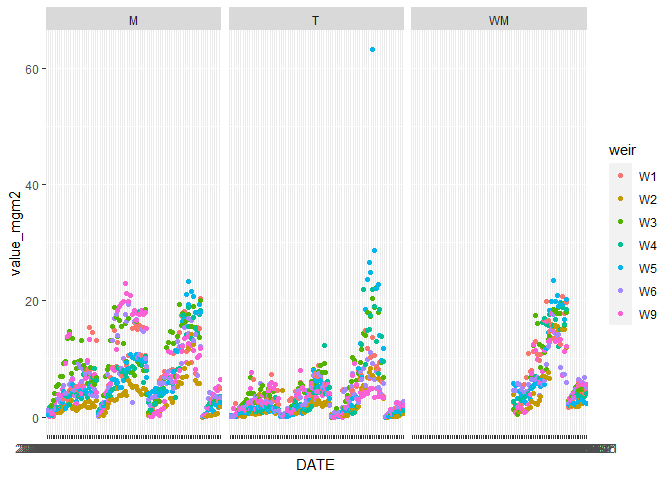
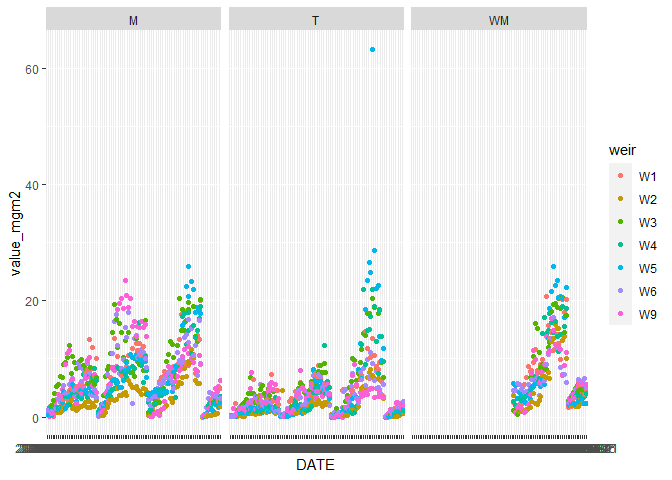
update standard curve, add high slope with intercept

Changed region(s): [[0.0938, 0.5938, 0.3125, 0.7812], [0.7812, 0.5625, 0.8438, 0.7812]]

diff --git a/rfu-calculation-vignette.md b/rfu-calculation-vignette.md
@@ -198,7 +198,7 @@ Next, run this function on your file number and save as `chla`, set
 surface area (`sa = TRUE`) for all files after 2020:
 
 ``` r
-chla <- get_chla_data_fr_drive(2, sa = TRUE)
+chla <- get_chla_data_fr_drive(1, sa = TRUE)
 ```
 
     ## Warning: Expecting numeric in B263 / R263C2: got 'NA'
@@ -396,9 +396,11 @@ rfu_to_mgm2 <- function(chla_list, slp_id) {
       rfu_cutoff <- subset_slps[subset_slps$slopetype == "cutoff",]$slope #rfu switching point from H to L
       rfu_abvdetection <- subset_slps[subset_slps$slopetype == "above_detection",]$slope #rfu above detect
       low_slp <- subset_slps[subset_slps$slopetype == "low_zero",]$slope #low standard slope
-      high_slp <- subset_slps[subset_slps$slopetype == "high_zero",]$slope #high standard slope
+      high_slp <- subset_slps[subset_slps$slopetype == "high_full",]$slope #high standard slope
+      high_int <- subset_slps[subset_slps$slopetype == "high_full",]$intercept
       
       chla_mgm2$slp <- ifelse(chla_mgm2$value_rfu <= rfu_cutoff, low_slp, high_slp)
+      chla_mgm2$int <- ifelse(chla_mgm2$value_rfu <= rfu_cutoff, 0, as.numeric(high_int))
       
       #add warning to calc-notes
       chla_mgm2$notes_calculation <- ifelse(is.na(chla_mgm2$notes_calculation) & 
@@ -412,14 +414,14 @@ rfu_to_mgm2 <- function(chla_list, slp_id) {
       
       
       ## internal function 
-      int_function <- function(rfu, vol, run, sa, slp) {
+      int_function <- function(rfu, vol, run, sa, slp, int) {
         blankmeans <- 
           chla[["blanks"]] %>% group_by(run) %>% 
           summarise(blank_mean = mean(value_rfu, na.rm = T))
         rfu_cor1 <- rfu - blankmeans$blank_mean[which(blankmeans$run == run)] 
         rfu_cor <- ifelse(rfu_cor1 < 0, 0, rfu_cor1)
         
-        mg_m2 <- rfu_cor*slp*(1/1000)*(vol/1000)*(1/sa) #1000's for conversion factors 
+        mg_m2 <- (rfu_cor*slp+int)*(1/1000)*(vol/1000)*(1/sa) #1000's for conversion factors 
         return(mg_m2)
         
       }
@@ -429,7 +431,8 @@ rfu_to_mgm2 <- function(chla_list, slp_id) {
                                      chla_mgm2$vol_Etoh, 
                                      chla_mgm2$run, 
                                      chla_mgm2$surface_area, 
-                                     chla_mgm2$slp)
+                                     chla_mgm2$slp, 
+                                     chla_mgm2$int)
  
       if(sum(!is.na(chla_mgm2$notes_calculation)) > 1){
         warning("Some of the surface areas were replaced 
